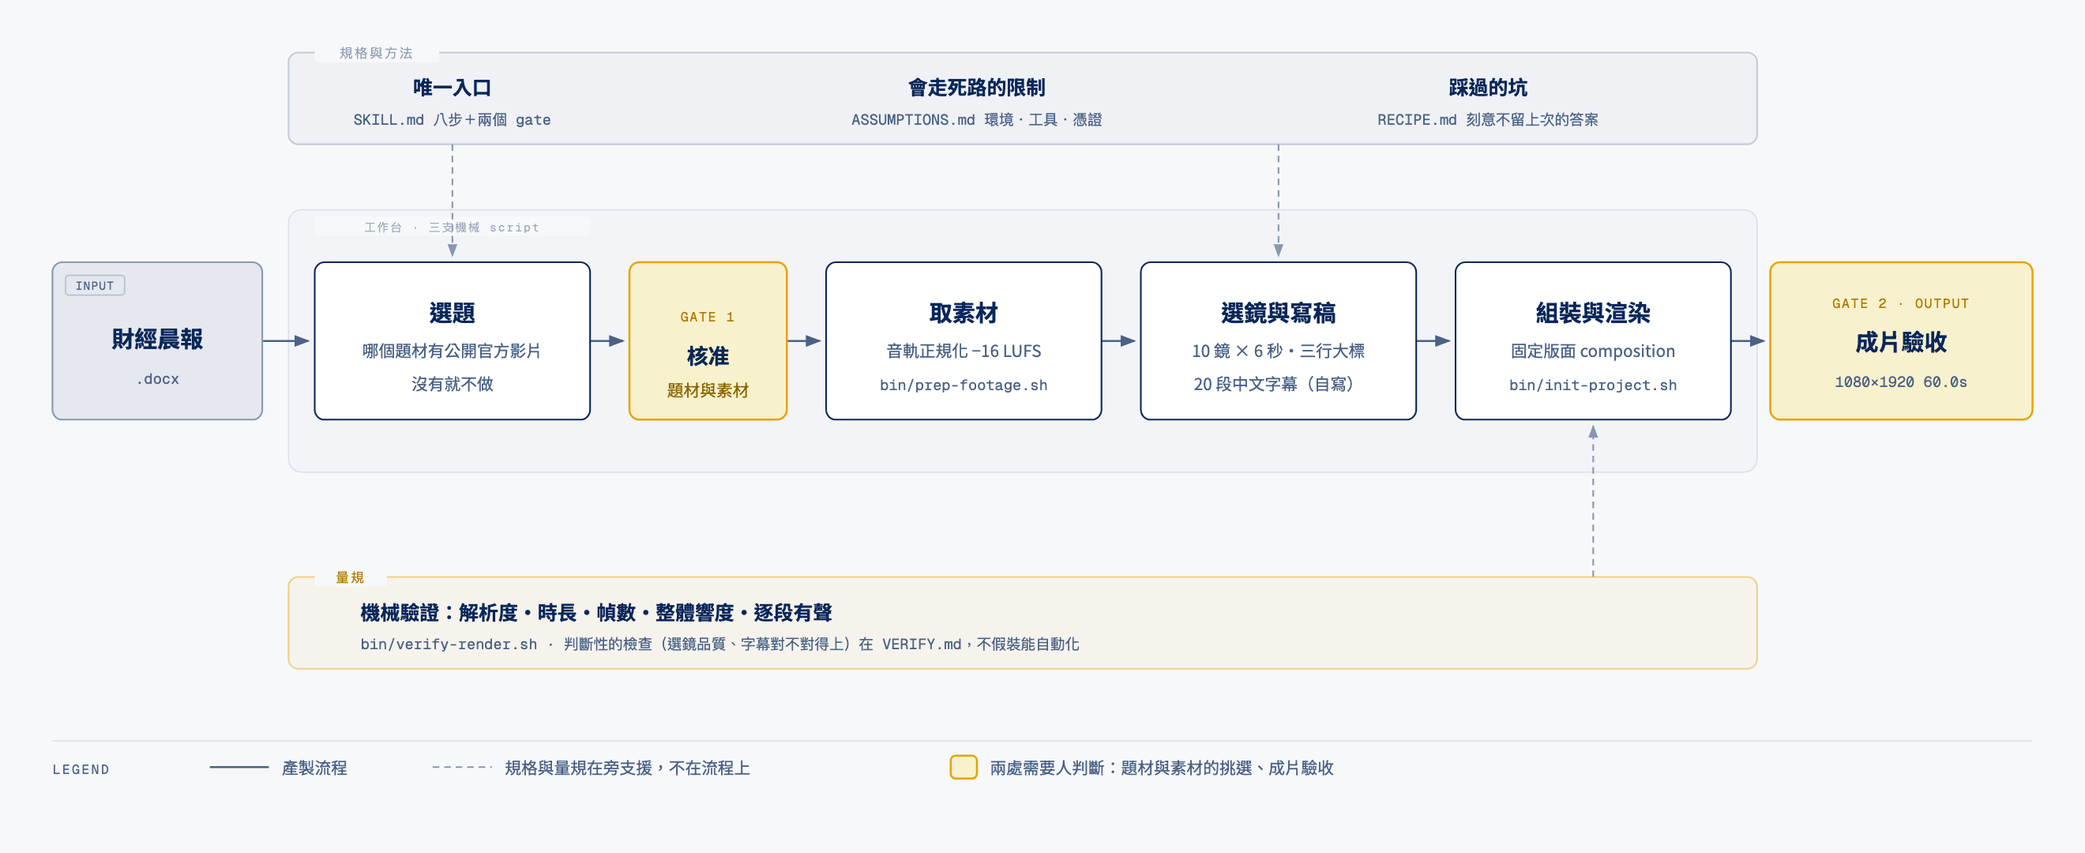
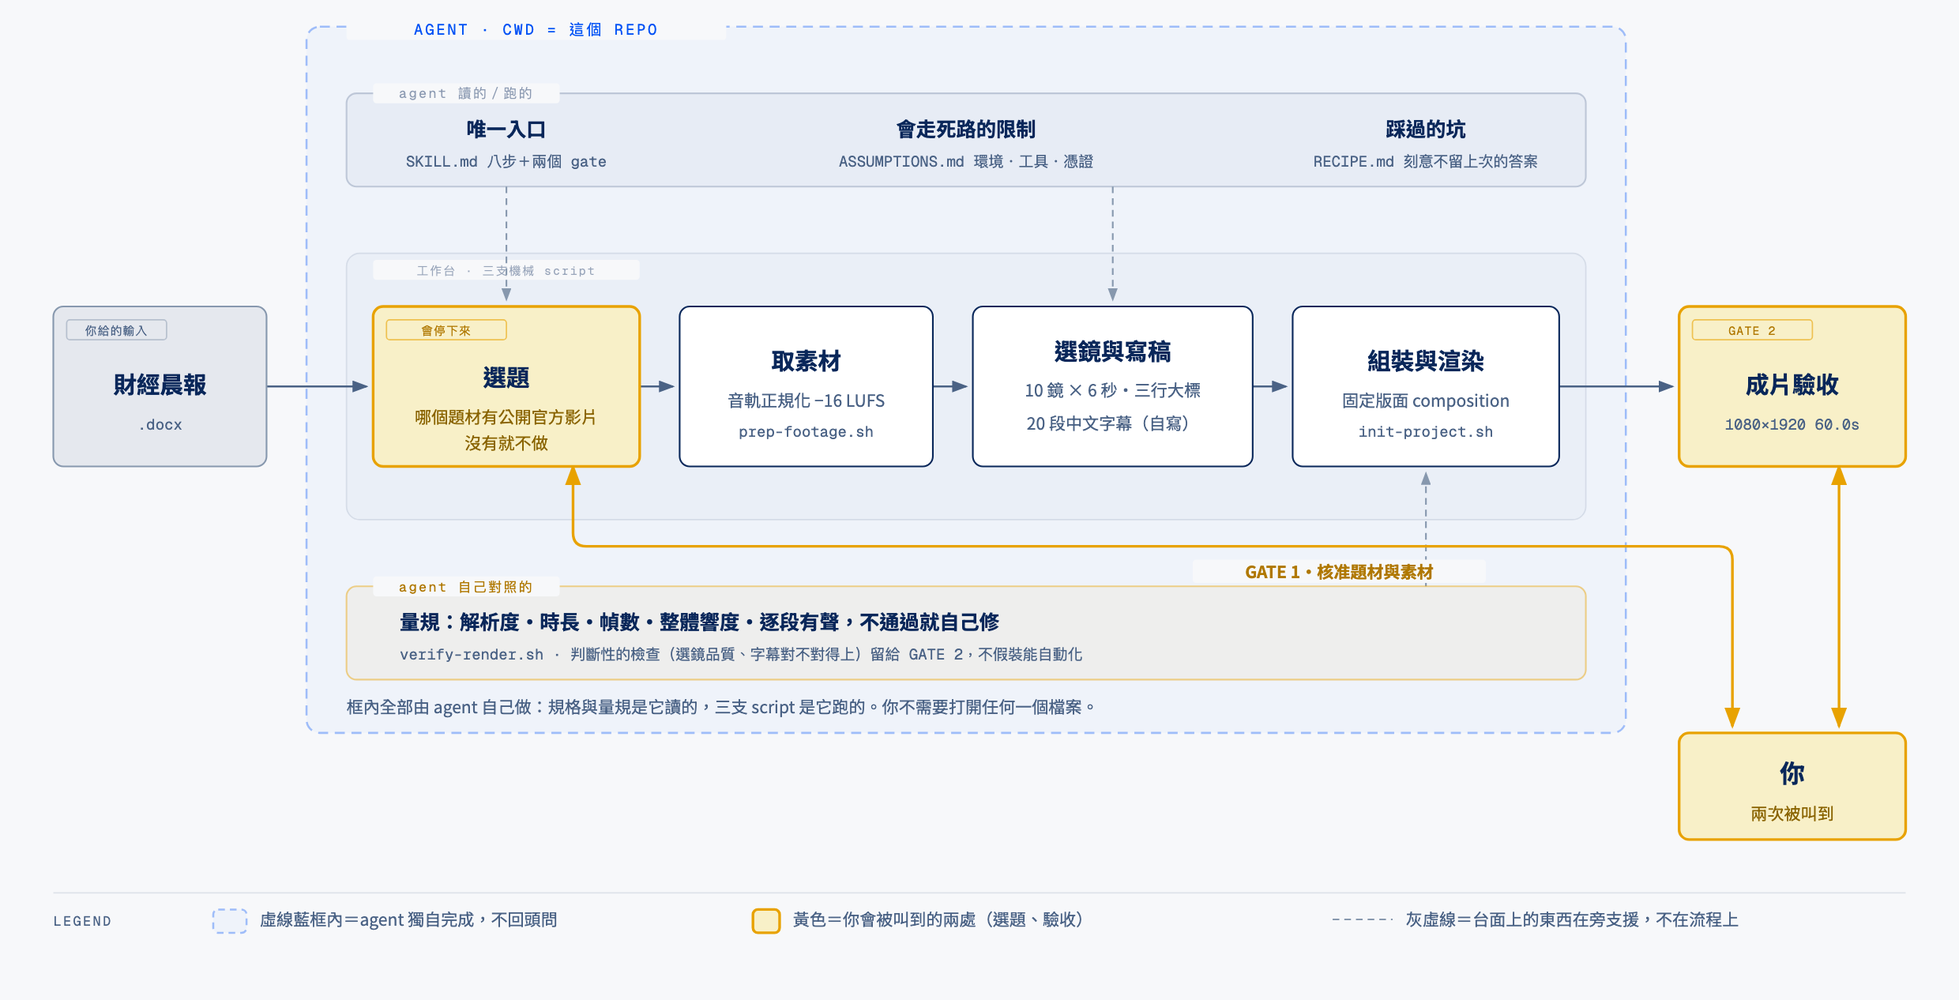
docs: 圖上標出 agent 的作業範圍，並加一段讀圖說明
原本的圖有盒子有箭頭，但沒說「誰在做」。加虛線藍框標示 agent 的作業範圍，
把「你」畫成框外節點，兩條黃線連到兩個 gate。這條線與 morning-brief-workbench
的差異因此一眼看得出來：那邊只有一處要人（付費），這邊有兩處（編輯與授權判斷）。

diff --git a/docs/architecture.html b/docs/architecture.html
@@ -2,106 +2,124 @@
 <html lang="zh-Hant"><head><meta charset="utf-8">
 <title>sourced-footage-reel 架構</title>
 <link href="https://fonts.googleapis.com/css2?family=Instrument+Serif:ital@0;1&family=Geist:wght@400;500;600&family=Geist+Mono:wght@400;500;600&family=Noto+Sans+TC:wght@400;500;700&display=swap" rel="stylesheet">
-<style>body{margin:0;background:#F7F8FA;font-family:'Geist','Noto Sans TC',sans-serif}.wrap{max-width:1320px;margin:0 auto;padding:2rem}svg{width:100%;height:auto;display:block}</style>
+<style>body{margin:0;background:#F7F8FA;font-family:'Geist','Noto Sans TC',sans-serif}.wrap{max-width:1240px;margin:0 auto;padding:2rem}svg{width:100%;height:auto;display:block}</style>
 </head><body><div class="wrap">
-<svg viewBox="0 0 1272 520" xmlns="http://www.w3.org/2000/svg" role="img" aria-labelledby="sfr-arch-title sfr-arch-desc">
+<svg viewBox="0 0 1176 600" xmlns="http://www.w3.org/2000/svg" role="img" aria-labelledby="sfr-arch-title sfr-arch-desc">
 <title id="sfr-arch-title">sourced-footage-reel 架構</title>
-<desc id="sfr-arch-desc">一篇財經晨報經過選題、取素材、選鏡寫稿、組裝渲染成為 60 秒直式短影音；只用廠商官方素材，不生成任何畫面；兩處需要人判斷：題材與素材的挑選，以及成片驗收。</desc>
+<desc id="sfr-arch-desc">你交出一篇文字來源，agent 在這個 repo 底下完成選題、取素材、選鏡寫稿、組裝渲染；規格與量規由 agent 自己讀與對照；有兩處會停下來找你：題材與素材的挑選，以及成片驗收。</desc>
 <defs>
   <marker id="a" markerWidth="8" markerHeight="6" refX="7" refY="3" orient="auto"><polygon points="0 0, 8 3, 0 6" fill="#4A6285"/></marker>
   <marker id="aa" markerWidth="8" markerHeight="6" refX="7" refY="3" orient="auto"><polygon points="0 0, 8 3, 0 6" fill="#E8A200"/></marker>
+  <marker id="aaS" markerWidth="8" markerHeight="6" refX="1" refY="3" orient="auto"><polygon points="8 0, 0 3, 8 6" fill="#E8A200"/></marker>
   <marker id="as" markerWidth="8" markerHeight="6" refX="7" refY="3" orient="auto"><polygon points="0 0, 8 3, 0 6" fill="#8798AE"/></marker>
 </defs>
 <rect width="100%" height="100%" fill="#F7F8FA"/>
 
+<!-- AGENT 作業範圍 -->
+<rect x="184" y="16" width="792" height="424" rx="8" fill="rgba(1,82,245,0.03)" stroke="rgba(1,82,245,0.35)" stroke-width="1.2" stroke-dasharray="6,4"/>
+<rect x="208" y="10" width="228" height="14" rx="2" fill="#F7F8FA"/>
+<text x="322" y="21" fill="#0152F5" font-size="9" font-family="'Geist Mono',monospace" text-anchor="middle" letter-spacing="0.14em">AGENT · CWD = 這個 REPO</text>
+<text x="208" y="428" fill="#4A6285" font-size="10" font-family="'Noto Sans TC',sans-serif">框內全部由 agent 自己做：規格與量規是它讀的，三支 script 是它跑的。你不需要打開任何一個檔案。</text>
+
 <!-- 規格與方法 bar -->
-<rect x="176" y="32" width="896" height="56" rx="6" fill="rgba(9,39,90,0.03)" stroke="rgba(9,39,90,0.20)" stroke-width="1"/>
-<rect x="192" y="26" width="76" height="12" rx="2" fill="#F7F8FA"/>
-<text x="230" y="35" fill="rgba(9,39,90,0.45)" font-size="8" font-family="'Geist Mono',monospace" text-anchor="middle" letter-spacing="0.14em">規格與方法</text>
-<text x="276" y="58" fill="#09275A" font-size="12" font-weight="600" font-family="'Noto Sans TC',sans-serif" text-anchor="middle">唯一入口</text>
-<text x="276" y="76" fill="#4A6285" font-size="9" font-family="'Geist Mono',monospace" text-anchor="middle">SKILL.md 八步＋兩個 gate</text>
-<text x="596" y="58" fill="#09275A" font-size="12" font-weight="600" font-family="'Noto Sans TC',sans-serif" text-anchor="middle">會走死路的限制</text>
-<text x="596" y="76" fill="#4A6285" font-size="9" font-family="'Geist Mono',monospace" text-anchor="middle">ASSUMPTIONS.md 環境・工具・憑證</text>
-<text x="908" y="58" fill="#09275A" font-size="12" font-weight="600" font-family="'Noto Sans TC',sans-serif" text-anchor="middle">踩過的坑</text>
-<text x="908" y="76" fill="#4A6285" font-size="9" font-family="'Geist Mono',monospace" text-anchor="middle">RECIPE.md 刻意不留上次的答案</text>
+<rect x="208" y="56" width="744" height="56" rx="6" fill="rgba(9,39,90,0.03)" stroke="rgba(9,39,90,0.20)" stroke-width="1"/>
+<rect x="224" y="50" width="112" height="12" rx="2" fill="#F7F8FA"/>
+<text x="280" y="59" fill="rgba(9,39,90,0.45)" font-size="8" font-family="'Geist Mono',monospace" text-anchor="middle" letter-spacing="0.14em">agent 讀的／跑的</text>
+<text x="304" y="82" fill="#09275A" font-size="12" font-weight="600" font-family="'Noto Sans TC',sans-serif" text-anchor="middle">唯一入口</text>
+<text x="304" y="100" fill="#4A6285" font-size="9" font-family="'Geist Mono',monospace" text-anchor="middle">SKILL.md 八步＋兩個 gate</text>
+<text x="580" y="82" fill="#09275A" font-size="12" font-weight="600" font-family="'Noto Sans TC',sans-serif" text-anchor="middle">會走死路的限制</text>
+<text x="580" y="100" fill="#4A6285" font-size="9" font-family="'Geist Mono',monospace" text-anchor="middle">ASSUMPTIONS.md 環境・工具・憑證</text>
+<text x="856" y="82" fill="#09275A" font-size="12" font-weight="600" font-family="'Noto Sans TC',sans-serif" text-anchor="middle">踩過的坑</text>
+<text x="856" y="100" fill="#4A6285" font-size="9" font-family="'Geist Mono',monospace" text-anchor="middle">RECIPE.md 刻意不留上次的答案</text>
 
 <!-- zone -->
-<rect x="176" y="128" width="896" height="160" rx="8" fill="rgba(9,39,90,0.02)" stroke="rgba(9,39,90,0.10)" stroke-width="0.8"/>
-<rect x="192" y="132" width="168" height="12" rx="2" fill="#F7F8FA"/>
-<text x="276" y="141" fill="rgba(9,39,90,0.40)" font-size="7" font-family="'Geist Mono',monospace" text-anchor="middle" letter-spacing="0.14em">工作台 · 三支機械 script</text>
+<rect x="208" y="152" width="744" height="160" rx="8" fill="rgba(9,39,90,0.02)" stroke="rgba(9,39,90,0.10)" stroke-width="0.8"/>
+<rect x="224" y="156" width="160" height="12" rx="2" fill="#F7F8FA"/>
+<text x="304" y="165" fill="rgba(9,39,90,0.40)" font-size="7" font-family="'Geist Mono',monospace" text-anchor="middle" letter-spacing="0.14em">工作台 · 三支機械 script</text>
 
 <!-- 主流程 -->
-<line x1="160" y1="208" x2="188" y2="208" stroke="#4A6285" stroke-width="1.2" marker-end="url(#a)"/>
-<line x1="360" y1="208" x2="380" y2="208" stroke="#4A6285" stroke-width="1.2" marker-end="url(#a)"/>
-<line x1="480" y1="208" x2="500" y2="208" stroke="#4A6285" stroke-width="1.2" marker-end="url(#a)"/>
-<line x1="672" y1="208" x2="692" y2="208" stroke="#4A6285" stroke-width="1.2" marker-end="url(#a)"/>
-<line x1="864" y1="208" x2="884" y2="208" stroke="#4A6285" stroke-width="1.2" marker-end="url(#a)"/>
-<line x1="1056" y1="208" x2="1076" y2="208" stroke="#4A6285" stroke-width="1.2" marker-end="url(#a)"/>
+<line x1="160" y1="232" x2="220" y2="232" stroke="#4A6285" stroke-width="1.2" marker-end="url(#a)"/>
+<line x1="384" y1="232" x2="404" y2="232" stroke="#4A6285" stroke-width="1.2" marker-end="url(#a)"/>
+<line x1="560" y1="232" x2="580" y2="232" stroke="#4A6285" stroke-width="1.2" marker-end="url(#a)"/>
+<line x1="752" y1="232" x2="772" y2="232" stroke="#4A6285" stroke-width="1.2" marker-end="url(#a)"/>
+<line x1="936" y1="232" x2="1004" y2="232" stroke="#4A6285" stroke-width="1.2" marker-end="url(#a)"/>
 
-<!-- 虛線 -->
-<line x1="276" y1="88" x2="276" y2="156" stroke="#8798AE" stroke-width="1" stroke-dasharray="4,3" marker-end="url(#as)"/>
-<line x1="780" y1="88" x2="780" y2="156" stroke="#8798AE" stroke-width="1" stroke-dasharray="4,3" marker-end="url(#as)"/>
-<line x1="972" y1="352" x2="972" y2="260" stroke="#8798AE" stroke-width="1" stroke-dasharray="4,3" marker-end="url(#as)"/>
+<!-- 台面 → 階段 -->
+<line x1="304" y1="112" x2="304" y2="180" stroke="#8798AE" stroke-width="1" stroke-dasharray="4,3" marker-end="url(#as)"/>
+<line x1="668" y1="112" x2="668" y2="180" stroke="#8798AE" stroke-width="1" stroke-dasharray="4,3" marker-end="url(#as)"/>
+<line x1="856" y1="352" x2="856" y2="284" stroke="#8798AE" stroke-width="1" stroke-dasharray="4,3" marker-end="url(#as)"/>
+
+<!-- GATE 1 -->
+<path d="M 344,280 V 320 Q 344,328 352,328 H 1032 Q 1040,328 1040,336 V 436"
+      fill="none" stroke="#E8A200" stroke-width="1.6" marker-end="url(#aa)" marker-start="url(#aaS)"/>
+<rect x="716" y="336" width="176" height="14" rx="2" fill="#F7F8FA"/>
+<text x="804" y="347" fill="#B07800" font-size="10" font-weight="600" font-family="'Noto Sans TC',sans-serif" text-anchor="middle">GATE 1・核准題材與素材</text>
+
+<!-- GATE 2 -->
+<line x1="1104" y1="280" x2="1104" y2="436" stroke="#E8A200" stroke-width="1.6" marker-end="url(#aa)" marker-start="url(#aaS)"/>
 
 <!-- 節點 -->
-<rect x="32" y="160" width="128" height="96" rx="6" fill="#F7F8FA"/>
-<rect x="32" y="160" width="128" height="96" rx="6" fill="rgba(74,98,133,0.10)" stroke="#8798AE" stroke-width="1"/>
-<rect x="40" y="168" width="36" height="12" rx="2" fill="none" stroke="rgba(135,152,174,0.5)" stroke-width="0.8"/>
-<text x="58" y="177" fill="#4A6285" font-size="7" font-family="'Geist Mono',monospace" text-anchor="middle" letter-spacing="0.08em">INPUT</text>
-<text x="96" y="212" fill="#09275A" font-size="14" font-weight="600" font-family="'Noto Sans TC',sans-serif" text-anchor="middle">財經晨報</text>
-<text x="96" y="234" fill="#4A6285" font-size="9" font-family="'Geist Mono',monospace" text-anchor="middle">.docx</text>
+<rect x="32" y="184" width="128" height="96" rx="6" fill="#F7F8FA"/>
+<rect x="32" y="184" width="128" height="96" rx="6" fill="rgba(74,98,133,0.10)" stroke="#8798AE" stroke-width="1"/>
+<rect x="40" y="192" width="60" height="12" rx="2" fill="none" stroke="rgba(135,152,174,0.5)" stroke-width="0.8"/>
+<text x="70" y="201" fill="#4A6285" font-size="7" font-family="'Geist Mono',monospace" text-anchor="middle" letter-spacing="0.08em">你給的輸入</text>
+<text x="96" y="236" fill="#09275A" font-size="14" font-weight="600" font-family="'Noto Sans TC',sans-serif" text-anchor="middle">財經晨報</text>
+<text x="96" y="258" fill="#4A6285" font-size="9" font-family="'Geist Mono',monospace" text-anchor="middle">.docx</text>
 
-<rect x="192" y="160" width="168" height="96" rx="6" fill="#F7F8FA"/>
-<rect x="192" y="160" width="168" height="96" rx="6" fill="#ffffff" stroke="#09275A" stroke-width="1"/>
-<text x="276" y="196" fill="#09275A" font-size="14" font-weight="600" font-family="'Noto Sans TC',sans-serif" text-anchor="middle">選題</text>
-<text x="276" y="218" fill="#4A6285" font-size="10" font-family="'Noto Sans TC',sans-serif" text-anchor="middle">哪個題材有公開官方影片</text>
-<text x="276" y="238" fill="#4A6285" font-size="10" font-family="'Noto Sans TC',sans-serif" text-anchor="middle">沒有就不做</text>
+<rect x="224" y="184" width="160" height="96" rx="6" fill="#F7F8FA"/>
+<rect x="224" y="184" width="160" height="96" rx="6" fill="rgba(255,212,0,0.20)" stroke="#E8A200" stroke-width="1.6"/>
+<rect x="232" y="192" width="72" height="12" rx="2" fill="none" stroke="rgba(232,162,0,0.6)" stroke-width="0.8"/>
+<text x="268" y="201" fill="#B07800" font-size="7" font-family="'Geist Mono',monospace" text-anchor="middle" letter-spacing="0.08em">會停下來</text>
+<text x="304" y="232" fill="#09275A" font-size="14" font-weight="600" font-family="'Noto Sans TC',sans-serif" text-anchor="middle">選題</text>
+<text x="304" y="254" fill="#8A6400" font-size="10" font-family="'Noto Sans TC',sans-serif" text-anchor="middle">哪個題材有公開官方影片</text>
+<text x="304" y="270" fill="#8A6400" font-size="10" font-family="'Noto Sans TC',sans-serif" text-anchor="middle">沒有就不做</text>
 
-<rect x="384" y="160" width="96" height="96" rx="6" fill="#F7F8FA"/>
-<rect x="384" y="160" width="96" height="96" rx="6" fill="rgba(255,212,0,0.18)" stroke="#E8A200" stroke-width="1.2"/>
-<text x="432" y="196" fill="#B07800" font-size="8" font-family="'Geist Mono',monospace" text-anchor="middle" letter-spacing="0.10em">GATE 1</text>
-<text x="432" y="222" fill="#09275A" font-size="13" font-weight="600" font-family="'Noto Sans TC',sans-serif" text-anchor="middle">核准</text>
-<text x="432" y="242" fill="#8A6400" font-size="10" font-family="'Noto Sans TC',sans-serif" text-anchor="middle">題材與素材</text>
+<rect x="408" y="184" width="152" height="96" rx="6" fill="#F7F8FA"/>
+<rect x="408" y="184" width="152" height="96" rx="6" fill="#ffffff" stroke="#09275A" stroke-width="1"/>
+<text x="484" y="222" fill="#09275A" font-size="14" font-weight="600" font-family="'Noto Sans TC',sans-serif" text-anchor="middle">取素材</text>
+<text x="484" y="244" fill="#4A6285" font-size="10" font-family="'Noto Sans TC',sans-serif" text-anchor="middle">音軌正規化 −16 LUFS</text>
+<text x="484" y="262" fill="#4A6285" font-size="9" font-family="'Geist Mono',monospace" text-anchor="middle">prep-footage.sh</text>
 
-<rect x="504" y="160" width="168" height="96" rx="6" fill="#F7F8FA"/>
-<rect x="504" y="160" width="168" height="96" rx="6" fill="#ffffff" stroke="#09275A" stroke-width="1"/>
-<text x="588" y="196" fill="#09275A" font-size="14" font-weight="600" font-family="'Noto Sans TC',sans-serif" text-anchor="middle">取素材</text>
-<text x="588" y="218" fill="#4A6285" font-size="10" font-family="'Noto Sans TC',sans-serif" text-anchor="middle">音軌正規化 −16 LUFS</text>
-<text x="588" y="238" fill="#4A6285" font-size="9" font-family="'Geist Mono',monospace" text-anchor="middle">bin/prep-footage.sh</text>
+<rect x="584" y="184" width="168" height="96" rx="6" fill="#F7F8FA"/>
+<rect x="584" y="184" width="168" height="96" rx="6" fill="#ffffff" stroke="#09275A" stroke-width="1"/>
+<text x="668" y="216" fill="#09275A" font-size="14" font-weight="600" font-family="'Noto Sans TC',sans-serif" text-anchor="middle">選鏡與寫稿</text>
+<text x="668" y="238" fill="#4A6285" font-size="10" font-family="'Noto Sans TC',sans-serif" text-anchor="middle">10 鏡 × 6 秒・三行大標</text>
+<text x="668" y="258" fill="#4A6285" font-size="10" font-family="'Noto Sans TC',sans-serif" text-anchor="middle">20 段中文字幕（自寫）</text>
 
-<rect x="696" y="160" width="168" height="96" rx="6" fill="#F7F8FA"/>
-<rect x="696" y="160" width="168" height="96" rx="6" fill="#ffffff" stroke="#09275A" stroke-width="1"/>
-<text x="780" y="196" fill="#09275A" font-size="14" font-weight="600" font-family="'Noto Sans TC',sans-serif" text-anchor="middle">選鏡與寫稿</text>
-<text x="780" y="218" fill="#4A6285" font-size="10" font-family="'Noto Sans TC',sans-serif" text-anchor="middle">10 鏡 × 6 秒・三行大標</text>
-<text x="780" y="238" fill="#4A6285" font-size="10" font-family="'Noto Sans TC',sans-serif" text-anchor="middle">20 段中文字幕（自寫）</text>
+<rect x="776" y="184" width="160" height="96" rx="6" fill="#F7F8FA"/>
+<rect x="776" y="184" width="160" height="96" rx="6" fill="#ffffff" stroke="#09275A" stroke-width="1"/>
+<text x="856" y="222" fill="#09275A" font-size="14" font-weight="600" font-family="'Noto Sans TC',sans-serif" text-anchor="middle">組裝與渲染</text>
+<text x="856" y="244" fill="#4A6285" font-size="10" font-family="'Noto Sans TC',sans-serif" text-anchor="middle">固定版面 composition</text>
+<text x="856" y="262" fill="#4A6285" font-size="9" font-family="'Geist Mono',monospace" text-anchor="middle">init-project.sh</text>
 
-<rect x="888" y="160" width="168" height="96" rx="6" fill="#F7F8FA"/>
-<rect x="888" y="160" width="168" height="96" rx="6" fill="#ffffff" stroke="#09275A" stroke-width="1"/>
-<text x="972" y="196" fill="#09275A" font-size="14" font-weight="600" font-family="'Noto Sans TC',sans-serif" text-anchor="middle">組裝與渲染</text>
-<text x="972" y="218" fill="#4A6285" font-size="10" font-family="'Noto Sans TC',sans-serif" text-anchor="middle">固定版面 composition</text>
-<text x="972" y="238" fill="#4A6285" font-size="9" font-family="'Geist Mono',monospace" text-anchor="middle">bin/init-project.sh</text>
-
-<rect x="1080" y="160" width="160" height="96" rx="6" fill="#F7F8FA"/>
-<rect x="1080" y="160" width="160" height="96" rx="6" fill="rgba(255,212,0,0.18)" stroke="#E8A200" stroke-width="1.2"/>
-<text x="1160" y="188" fill="#B07800" font-size="8" font-family="'Geist Mono',monospace" text-anchor="middle" letter-spacing="0.10em">GATE 2 · OUTPUT</text>
-<text x="1160" y="214" fill="#09275A" font-size="14" font-weight="600" font-family="'Noto Sans TC',sans-serif" text-anchor="middle">成片驗收</text>
-<text x="1160" y="236" fill="#4A6285" font-size="9" font-family="'Geist Mono',monospace" text-anchor="middle">1080×1920  60.0s</text>
+<rect x="1008" y="184" width="136" height="96" rx="6" fill="#F7F8FA"/>
+<rect x="1008" y="184" width="136" height="96" rx="6" fill="rgba(255,212,0,0.20)" stroke="#E8A200" stroke-width="1.6"/>
+<rect x="1016" y="192" width="72" height="12" rx="2" fill="none" stroke="rgba(232,162,0,0.6)" stroke-width="0.8"/>
+<text x="1052" y="201" fill="#B07800" font-size="7" font-family="'Geist Mono',monospace" text-anchor="middle" letter-spacing="0.08em">GATE 2</text>
+<text x="1076" y="236" fill="#09275A" font-size="14" font-weight="600" font-family="'Noto Sans TC',sans-serif" text-anchor="middle">成片驗收</text>
+<text x="1076" y="258" fill="#4A6285" font-size="9" font-family="'Geist Mono',monospace" text-anchor="middle">1080×1920  60.0s</text>
 
 <!-- 量規 bar -->
-<rect x="176" y="352" width="896" height="56" rx="6" fill="rgba(232,162,0,0.05)" stroke="rgba(232,162,0,0.45)" stroke-width="1"/>
-<rect x="192" y="346" width="44" height="12" rx="2" fill="#F7F8FA"/>
-<text x="214" y="355" fill="#B07800" font-size="8" font-family="'Geist Mono',monospace" text-anchor="middle" letter-spacing="0.14em">量規</text>
-<text x="220" y="378" fill="#09275A" font-size="12" font-weight="600" font-family="'Noto Sans TC',sans-serif">機械驗證：解析度・時長・幀數・整體響度・逐段有聲</text>
-<text x="220" y="396" fill="#4A6285" font-size="9" font-family="'Geist Mono',monospace">bin/verify-render.sh  ·  判斷性的檢查（選鏡品質、字幕對不對得上）在 VERIFY.md，不假裝能自動化</text>
+<rect x="208" y="352" width="744" height="56" rx="6" fill="rgba(232,162,0,0.05)" stroke="rgba(232,162,0,0.45)" stroke-width="1"/>
+<rect x="224" y="346" width="112" height="12" rx="2" fill="#F7F8FA"/>
+<text x="280" y="355" fill="#B07800" font-size="8" font-family="'Geist Mono',monospace" text-anchor="middle" letter-spacing="0.14em">agent 自己對照的</text>
+<text x="240" y="378" fill="#09275A" font-size="12" font-weight="600" font-family="'Noto Sans TC',sans-serif">量規：解析度・時長・幀數・整體響度・逐段有聲，不通過就自己修</text>
+<text x="240" y="396" fill="#4A6285" font-size="9" font-family="'Geist Mono',monospace">verify-render.sh  ·  判斷性的檢查（選鏡品質、字幕對不對得上）留給 GATE 2，不假裝能自動化</text>
+
+<!-- 你 -->
+<rect x="1008" y="440" width="136" height="64" rx="6" fill="#F7F8FA"/>
+<rect x="1008" y="440" width="136" height="64" rx="6" fill="rgba(255,212,0,0.20)" stroke="#E8A200" stroke-width="1.6"/>
+<text x="1076" y="470" fill="#09275A" font-size="15" font-weight="700" font-family="'Noto Sans TC',sans-serif" text-anchor="middle">你</text>
+<text x="1076" y="492" fill="#8A6400" font-size="10" font-family="'Noto Sans TC',sans-serif" text-anchor="middle">兩次被叫到</text>
 
 <!-- legend -->
-<line x1="32" y1="452" x2="1240" y2="452" stroke="rgba(9,39,90,0.10)" stroke-width="0.8"/>
-<text x="32" y="472" fill="#4A6285" font-size="8" font-family="'Geist Mono',monospace" letter-spacing="0.14em">LEGEND</text>
-<line x1="128" y1="468" x2="164" y2="468" stroke="#4A6285" stroke-width="1.2"/>
-<text x="172" y="472" fill="#4A6285" font-size="10" font-family="'Noto Sans TC',sans-serif">產製流程</text>
-<line x1="264" y1="468" x2="300" y2="468" stroke="#8798AE" stroke-width="1" stroke-dasharray="4,3"/>
-<text x="308" y="472" fill="#4A6285" font-size="10" font-family="'Noto Sans TC',sans-serif">規格與量規在旁支援，不在流程上</text>
-<rect x="580" y="461" width="16" height="14" rx="3" fill="rgba(255,212,0,0.18)" stroke="#E8A200" stroke-width="1.2"/>
-<text x="604" y="472" fill="#4A6285" font-size="10" font-family="'Noto Sans TC',sans-serif">兩處需要人判斷：題材與素材的挑選、成片驗收</text>
+<line x1="32" y1="536" x2="1144" y2="536" stroke="rgba(9,39,90,0.10)" stroke-width="0.8"/>
+<text x="32" y="556" fill="#4A6285" font-size="8" font-family="'Geist Mono',monospace" letter-spacing="0.14em">LEGEND</text>
+<rect x="128" y="546" width="20" height="14" rx="3" fill="rgba(1,82,245,0.03)" stroke="rgba(1,82,245,0.35)" stroke-width="1.2" stroke-dasharray="4,3"/>
+<text x="156" y="556" fill="#4A6285" font-size="10" font-family="'Noto Sans TC',sans-serif">虛線藍框內＝agent 獨自完成，不回頭問</text>
+<rect x="452" y="546" width="16" height="14" rx="3" fill="rgba(255,212,0,0.20)" stroke="#E8A200" stroke-width="1.6"/>
+<text x="476" y="556" fill="#4A6285" font-size="10" font-family="'Noto Sans TC',sans-serif">黃色＝你會被叫到的兩處（選題、驗收）</text>
+<line x1="800" y1="552" x2="836" y2="552" stroke="#8798AE" stroke-width="1" stroke-dasharray="4,3"/>
+<text x="844" y="556" fill="#4A6285" font-size="10" font-family="'Noto Sans TC',sans-serif">灰虛線＝台面上的東西在旁支援，不在流程上</text>
 </svg>
 </div></body></html>

diff --git a/README.md b/README.md
@@ -10,7 +10,12 @@
 
 ![架構圖](docs/architecture.png)
 
----
+**這張圖怎麼看**：**虛線藍框內全部是 agent 在做。** 你交出一份文字來源，agent 在框裡讀規格、
+跑三支 script、對照量規。**它會在兩個地方叫你**：選題（哪個題材值得做、這支官方影片能不能用）
+與成片驗收（選鏡品質與字幕對不對得上）。**那兩件機器量不出來，其餘它自己判斷後繼續。**
+
+台面上那兩層（規格與方法／量規）**都是 agent 讀的，不是給你看的**。
+你不需要打開任何一個檔案。
 
 ## 這個工作台怎麼解
 
